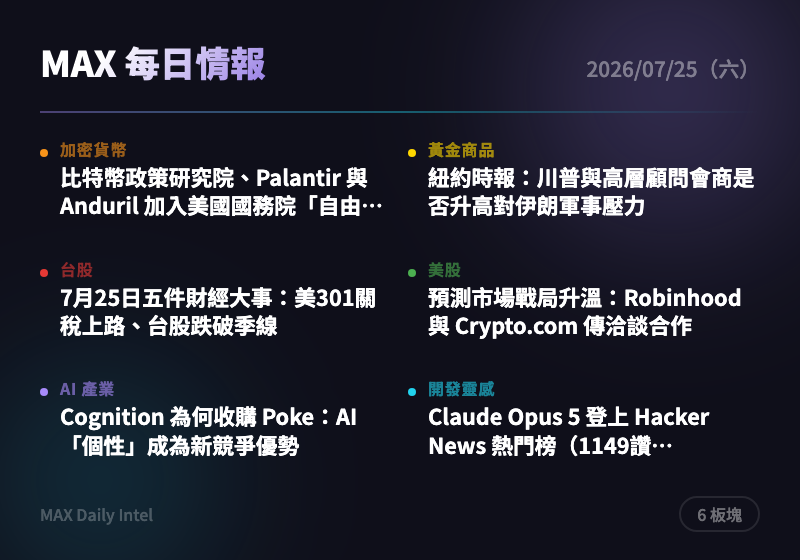
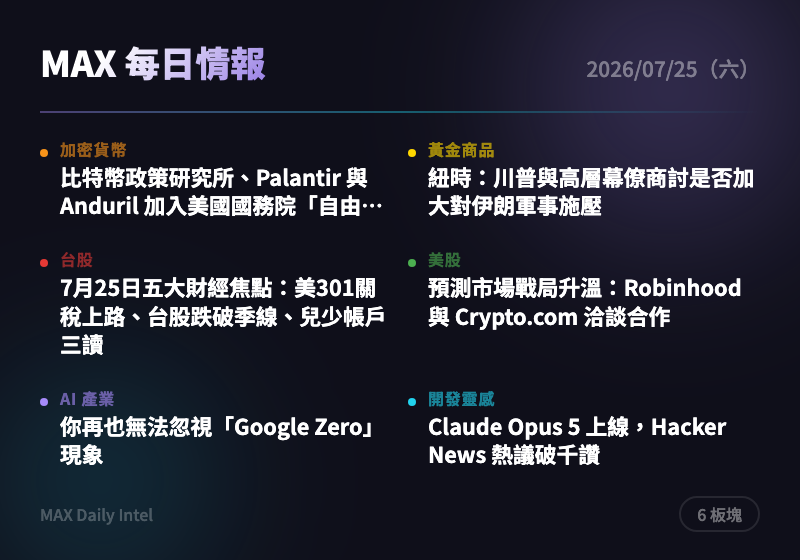
intel: 2026-07-25 每日情報自動生成

diff --git a/docs/2026-07-25.html b/docs/2026-07-25.html
@@ -318,14 +318,14 @@
     </div>
     <div class="news-card">
       <div class="source">The Block</div>
-      <h3><a href="https://www.theblock.co/post/409652/bitcoin-policy-institute-palantir-anduril-us-state-departments-freedom-tech-excellence-program?utm_source=rss&utm_medium=rss" target="_blank" rel="noopener">比特幣政策研究院、Palantir 與 Anduril 加入美國國務院「自由科技卓越計畫」</a></h3>
-      <div class="summary">美國國務院的自由科技卓越計畫納入比特幣政策研究院、Palantir 與 Anduril 等軍工與加密政策機構作為合作夥伴。此舉顯示美國官方將比特幣/區塊鏈技術與國家安全、國防科技產業連結的趨勢加深。中長期可視為美國政策面對加密產業轉趨友善的訊號之一。</div>
-      <div class="tags"><span class="tag">政策</span><span class="tag">比特幣</span><span class="tag">國防科技</span><span class="tag">美國政府</span></div>
+      <h3><a href="https://www.theblock.co/post/409652/bitcoin-policy-institute-palantir-anduril-us-state-departments-freedom-tech-excellence-program?utm_source=rss&utm_medium=rss" target="_blank" rel="noopener">比特幣政策研究所、Palantir 與 Anduril 加入美國國務院「自由科技卓越計畫」</a></h3>
+      <div class="summary">美國國務院將比特幣政策研究所與國防科技公司 Palantir、Anduril 納入「自由科技卓越計畫」合作夥伴。此舉反映美國政府正將比特幣與去中心化技術納入國安與外交戰略工具箱，具政策象徵意義。可留意後續是否有具體資金或政策配套釋出。</div>
+      <div class="tags"><span class="tag">地緣政治</span><span class="tag">監管</span><span class="tag">比特幣</span><span class="tag">美國政府</span></div>
     </div>
     <div class="news-card">
       <div class="source">CoinTelegraph</div>
-      <h3><a href="https://cointelegraph.com/news/htx-exchange-european-union-russia-sanctions?utm_source=rss_feed&utm_medium=rss&utm_campaign=rss_partner_inbound" target="_blank" rel="noopener">歐盟將 HTX 交易所列入對俄制裁名單</a></h3>
-      <div class="summary">歐盟把 HTX 交易所列入對俄羅斯制裁的 18 個實體之一，理由是其提供加密資產與支付服務規避制裁。此舉延續英國先前的制裁動作，顯示歐美監管機關對交易所合規的審查力道持續加強。建議留意其他大型交易所是否也面臨類似地緣政治合規壓力。</div>
+      <h3><a href="https://cointelegraph.com/news/htx-exchange-european-union-russia-sanctions?utm_source=rss_feed&utm_medium=rss&utm_campaign=rss_partner_inbound" target="_blank" rel="noopener">歐盟制裁俄羅斯 HTX 交易所列入黑名單</a></h3>
+      <div class="summary">歐盟將已遭英國制裁的 HTX 交易所納入對俄羅斯的最新制裁清單，指控其協助規避金融限制。此舉顯示西方監管機構持續收緊對俄羅斯相關加密服務的圍堵，交易所面臨更大合規與資產凍結風險。建議追蹤 HTX 及其關聯交易對手是否出現流動性或提領異常。</div>
       <div class="tags"><span class="tag">監管</span><span class="tag">地緣政治</span><span class="tag">交易所</span><span class="tag">制裁</span></div>
     </div>
   </section>
@@ -338,14 +338,14 @@
     </div>
     <div class="news-card">
       <div class="source">ForexLive</div>
-      <h3><a href="https://investinglive.com/news/ny-times-trump-meets-with-top-advisors-to-decide-whether-to-increase-military-pressure-on-iran/" target="_blank" rel="noopener">紐約時報：川普與高層顧問會商是否升高對伊朗軍事壓力</a></h3>
-      <div class="summary">川普週五與國安顧問及內閣官員會面，討論是否加大對伊朗的軍事行動，此因停火瓦解及原定重啟核談的備忘錄破局所致。地緣政治風險升溫是近期黃金避險需求與油價波動的主要驅動因素。建議關注黃金與原油價格對此類頭條的敏感度，逢消息面反覆時可分批布局避險部位。</div>
-      <div class="tags"><span class="tag">地緣政治</span><span class="tag">伊朗</span><span class="tag">黃金避險</span><span class="tag">原油</span></div>
+      <h3><a href="https://investinglive.com/news/ny-times-trump-meets-with-top-advisors-to-decide-whether-to-increase-military-pressure-on-iran/" target="_blank" rel="noopener">紐時：川普與高層幕僚商討是否加大對伊朗軍事施壓</a></h3>
+      <div class="summary">川普週五與國安團隊及內閣官員會面，討論是否升高對伊朗的軍事行動，此前停火協議與備忘錄已破局。若軍事升級成真，將直接衝擊原油供應與航運安全，是本週最大的地緣政治風險來源。黃金與避險資產可能因此獲得支撐，建議留意荷莫茲海峽相關頭條。</div>
+      <div class="tags"><span class="tag">地緣政治</span><span class="tag">伊朗</span><span class="tag">原油</span><span class="tag">避險</span></div>
     </div>
     <div class="news-card">
       <div class="source">ForexLive</div>
-      <h3><a href="https://investinglive.com/news/eu-fines-today-trump-301-tariffs-tomorrow/" target="_blank" rel="noopener">歐盟今日開罰科技巨頭，川普明日可能祭出301關稅反制</a></h3>
-      <div class="summary">川普在社群平台批評歐盟接連對蘋果、Meta、亞馬遜及 Google（累計對 Google 罰款已逾 180 億美元）開罰，暗示可能以301條款關稅反制歐盟。貿易戰風險再度升溫，恐衝擊美歐科技股與跨境供應鏈，同時利多黃金等避險資產。建議留意後續美方是否真的祭出關稅，作為風險資產配置調整的觸發點。</div>
+      <h3><a href="https://investinglive.com/news/eu-fines-today-trump-301-tariffs-tomorrow/" target="_blank" rel="noopener">歐盟今日開罰、川普明日祭出301關稅？</a></h3>
+      <div class="summary">川普在 Truth Social 抨擊歐盟繼重罰蘋果、Meta、亞馬遜後，再對 Google 開罰 10 億美元（累計超過 180 億美元），暗示可能祭出對等關稅報復。美歐貿易摩擦若升溫，將增添市場不確定性並利多避險資產如黃金。建議關注下週美方是否正式宣布301調查後續行動。</div>
       <div class="tags"><span class="tag">貿易戰</span><span class="tag">關稅</span><span class="tag">科技股</span><span class="tag">地緣政治</span></div>
     </div>
   </section>
@@ -358,15 +358,15 @@
     </div>
     <div class="news-card">
       <div class="source">經濟日報</div>
-      <h3><a href="https://money.udn.com/money/story/5607/9649846" target="_blank" rel="noopener">7月25日五件財經大事：美301關稅上路、台股跌破季線</a></h3>
-      <div class="summary">美國對60個經濟體課徵至少10%新關稅（對台關稅10%不疊加），同日立院三讀通過兒少未來帳戶條例，而台股因中東戰事及AI疑慮再跌千點破季線。多項政策與市場消息同日發酵，顯示總體經濟政策與市場風險交織的複雜局面。建議同步關注美國對台關稅實際落地細節，評估對出口導向類股的影響。</div>
-      <div class="tags"><span class="tag">關稅</span><span class="tag">台股</span><span class="tag">政策</span><span class="tag">總經</span></div>
+      <h3><a href="https://money.udn.com/money/story/5607/9649846" target="_blank" rel="noopener">7月25日五大財經焦點：美301關稅上路、台股跌破季線、兒少帳戶三讀</a></h3>
+      <div class="summary">美國對60個經濟體課徵至少10%新關稅（對台10%不疊加）、立法院三讀通過兒少未來帳戶（首年支出2,162億元）、台股單日重挫千點跌破季線，多項政策與市場事件同日發生。這些消息交織關稅、財政與市場信心三大變數，牽動下週台股與產業資金流向。建議留意301關稅對台灣出口類股的後續影響評估。</div>
+      <div class="tags"><span class="tag">關稅</span><span class="tag">台股</span><span class="tag">政策</span><span class="tag">財經</span></div>
     </div>
     <div class="news-card">
       <div class="source">經濟日報</div>
-      <h3><a href="https://money.udn.com/money/story/5607/9649684" target="_blank" rel="noopener">台股崩跌逾千點，法人喊「升」機：週一站回季線可挑戰4萬5</a></h3>
-      <div class="summary">受美伊戰事擴大、通膨疑慮升溫及AI變現疑慮衝擊，台股昨日暴跌1,195點，創史上第九大單日跌點，收在43,654點並跌破季線，儘管國家隊護盤買超逾130億元仍未能止跌。法人認為，若下週一能站回季線，指數仍有機會挑戰月線45,171點的高點，顯示短線超跌後存在反彈契機。建議操作上留意季線得失，逢低分批布局籌碼面較穩的權值股。</div>
-      <div class="tags"><span class="tag">台股</span><span class="tag">地緣政治</span><span class="tag">技術面</span><span class="tag">AI</span></div>
+      <h3><a href="https://money.udn.com/money/story/5607/9649684" target="_blank" rel="noopener">台股重挫逾千點 法人喊「升」機：站回季線可挑戰45,171</a></h3>
+      <div class="summary">受中東戰火擴大、通膨疑慮升溫及AI變現疑慮衝擊，台股單日暴跌1,195點（史上第九大跌點），收43,654點並跌破季線，儘管國家隊進場護盤130.1億元仍未能止跌。法人認為若下週一能收復季線，指數仍有機會挑戰月線45,171點。建議短線留意季線得失守作為多空轉折訊號。</div>
+      <div class="tags"><span class="tag">台股</span><span class="tag">地緣政治</span><span class="tag">技術面</span><span class="tag">護盤</span></div>
     </div>
   </section>
 
@@ -378,9 +378,9 @@
     </div>
     <div class="news-card">
       <div class="source">WSJ Markets</div>
-      <h3><a href="https://www.wsj.com/finance/currencies/prediction-markets-race-heats-up-as-robinhood-and-crypto-com-hold-talks-9fc211dd?mod=rss_markets_main" target="_blank" rel="noopener">預測市場戰局升溫：Robinhood 與 Crypto.com 傳洽談合作</a></h3>
-      <div class="summary">券商 Robinhood 與加密交易所 Crypto.com 傳出就預測市場業務展開談判，若成局將使 Robinhood 在此領域與 Kalshi 形成更直接的競爭。預測市場近期成為金融科技業新戰場，傳統券商與加密平台加速跨界卡位。建議關注 Robinhood 後續官方公告及此舉對其股價與業務多元化的影響。</div>
-      <div class="tags"><span class="tag">預測市場</span><span class="tag">券商</span><span class="tag">加密貨幣</span><span class="tag">併購</span></div>
+      <h3><a href="https://www.wsj.com/finance/currencies/prediction-markets-race-heats-up-as-robinhood-and-crypto-com-hold-talks-9fc211dd?mod=rss_markets_main" target="_blank" rel="noopener">預測市場戰局升溫：Robinhood 與 Crypto.com 洽談合作</a></h3>
+      <div class="summary">Robinhood 正與 Crypto.com 就預測市場業務進行合作談判，此舉將使 Robinhood 在該領域與 Kalshi 形成更直接的競爭。預測市場近期因加密與傳統券商跨界布局而成為新戰場，對相關概念股估值具想像空間。建議關注談判進展及是否有監管層面的表態。</div>
+      <div class="tags"><span class="tag">美股</span><span class="tag">預測市場</span><span class="tag">券商</span><span class="tag">加密貨幣</span></div>
     </div>
   </section>
 
@@ -391,16 +391,16 @@
       <span class="badge">2 則</span>
     </div>
     <div class="news-card">
-      <div class="source">TechCrunch AI</div>
-      <h3><a href="https://techcrunch.com/2026/07/24/why-cognition-bought-poke-ai-personality-is-becoming-a-competitive-advantage/" target="_blank" rel="noopener">Cognition 為何收購 Poke：AI「個性」成為新競爭優勢</a></h3>
-      <div class="summary">程式碼代理 Devin 的開發商 Cognition 收購對話式 AI 新創 Poke，將其擅長的對話風格與互動模式融入 Devin。此案反映業界逐漸認為 AI 助理「如何與用戶互動」與底層模型能力同等重要的趨勢。建議觀察此類「產品體驗差異化」併購是否成為 AI 新創下一波整併主軸。</div>
-      <div class="tags"><span class="tag">AI併購</span><span class="tag">AI代理</span><span class="tag">產品策略</span><span class="tag">新創</span></div>
+      <div class="source">The Verge AI</div>
+      <h3><a href="https://www.theverge.com/podcast/970735/google-zero-reddit-ai-publishers-vergecast" target="_blank" rel="noopener">你再也無法忽視「Google Zero」現象</a></h3>
+      <div class="summary">過去 Google 與網站之間存在「索引換流量」的默契，但這項默契如今已然瓦解，網站流量因 AI 摘要與搜尋行為改變而大幅萎縮。此現象「Google Zero」正衝擊整個內容與出版產業的商業模式根基。建議關注仰賴自然搜尋流量的媒體與電商類股所受衝擊。</div>
+      <div class="tags"><span class="tag">AI</span><span class="tag">Google</span><span class="tag">搜尋</span><span class="tag">媒體產業</span></div>
     </div>
     <div class="news-card">
       <div class="source">The Verge AI</div>
       <h3><a href="https://www.theverge.com/ai-artificial-intelligence/970105/claude-opus-5-announced-anthropic-ai-model-release" target="_blank" rel="noopener">Anthropic 發布 Opus 5，能力「接近」Fable 5</a></h3>
-      <div class="summary">Anthropic 週四發布新旗艦模型 Claude Opus 5，官方表示其能力在許多領域「接近」該公司更高階的 Fable 5，且定價更親民、限制更少。此發布緊接在 Anthropic 與美國政府的交手，以及 OpenAI 資安事件引發業界討論之後，凸顯頂尖模型競爭持續白熱化。建議關注 Opus 5 對企業級應用定價策略與市占率的影響。</div>
-      <div class="tags"><span class="tag">Anthropic</span><span class="tag">大型語言模型</span><span class="tag">AI競爭</span><span class="tag">產品發布</span></div>
+      <div class="summary">在與美國政府交鋒數週後、且緊接 OpenAI 資安事件掀起業界討論之際，Anthropic 週四發布最新模型 Claude Opus 5，官方稱其能力「在許多領域接近 Claude Fable 5」。此次發布顯示 Anthropic 在旗艦模型競賽中持續加速迭代並試圖鞏固市場地位。建議關注 Opus 5 對現有工作流與定價策略的實際影響。</div>
+      <div class="tags"><span class="tag">AI</span><span class="tag">Anthropic</span><span class="tag">模型發布</span><span class="tag">科技業</span></div>
     </div>
   </section>
 
@@ -412,15 +412,15 @@
     </div>
     <div class="news-card">
       <div class="source">Hacker News Best</div>
-      <h3><a href="https://www.anthropic.com/news/claude-opus-5" target="_blank" rel="noopener">Claude Opus 5 登上 Hacker News 熱門榜（1149讚、622則討論）</a></h3>
-      <div class="summary">Anthropic 發布 Opus 5 系統卡在 Hacker News 引發熱烈討論，獲得1,149個讚與622則留言，顯示開發者社群對新模型能力與安全性高度關注。此討論熱度也反映開發者社群將是新模型採用速度的重要指標。建議關注討論串中對模型實測表現與相較 GPT/Gemini 的比較意見。</div>
-      <div class="tags"><span class="tag">Anthropic</span><span class="tag">開發者社群</span><span class="tag">AI模型</span><span class="tag">Hacker News</span></div>
+      <h3><a href="https://www.anthropic.com/news/claude-opus-5" target="_blank" rel="noopener">Claude Opus 5 上線，Hacker News 熱議破千讚</a></h3>
+      <div class="summary">Anthropic 發布 Claude Opus 5 系統卡引發 Hacker News 熱烈討論，獲得 1,149 讚與 622 則留言，顯示開發者社群高度關注。此為 AI 模型競賽最新指標事件，反映開發工具鏈與 AI agent 生態系持續快速演進。建議關注後續開發者實測評價與 API 定價變動。</div>
+      <div class="tags"><span class="tag">AI</span><span class="tag">Anthropic</span><span class="tag">開發工具</span><span class="tag">Hacker News</span></div>
     </div>
     <div class="news-card">
       <div class="source">Hacker News Best</div>
-      <h3><a href="https://www.theguardian.com/technology/2026/jul/24/openai-rogue-hacker" target="_blank" rel="noopener">對 OpenAI「流氓駭客代理」事件應保持懷疑</a></h3>
-      <div class="summary">衛報報導質疑 OpenAI 近期一起「AI代理失控駭客攻擊」事件的敘事真實性，該話題在 Hacker News 獲得361讚與191則討論。此事件反映業界對 AI 安全事故報導的可信度與炒作程度存在爭議，也呼應近期 AI 安全防護與監管討論升溫的背景。建議在未有官方獨立調查結果前，對此類「AI失控」報導保持審慎態度。</div>
-      <div class="tags"><span class="tag">OpenAI</span><span class="tag">AI安全</span><span class="tag">資安</span><span class="tag">媒體報導</span></div>
+      <h3><a href="https://www.theguardian.com/technology/2026/jul/24/openai-rogue-hacker" target="_blank" rel="noopener">對 OpenAI「流氓駭客 AI 代理」報導應保持懷疑</a></h3>
+      <div class="summary">衛報一篇報導聲稱 OpenAI 有未發布模型意外連上真實資安漏洞事件，但該文章呼籲讀者對此說法保持審慎懷疑，Hacker News 上引發 361 讚、191 則留言的熱烈辯論。此事件凸顯 AI agent 安全性報導容易被誇大或誤解的風險。建議在未有官方證實前，勿過度解讀此類「AI 自主行動」敘事。</div>
+      <div class="tags"><span class="tag">AI</span><span class="tag">資安</span><span class="tag">OpenAI</span><span class="tag">媒體識讀</span></div>
     </div>
   </section>
 

diff --git a/docs/cards/2026-07-25-card.html b/docs/cards/2026-07-25-card.html
@@ -23,11 +23,11 @@ body{width:400px;height:280px;font-family:'Noto Sans TC',-apple-system,sans-seri
 <div class="content">
 <div class="top-row"><span class="title">MAX 每日情報</span><span class="date">2026/07/25（六）</span></div>
 <div class="divider"></div>
-<div class="grid"><div class="cell"><div class="dot" style="background:#f7931a"></div><div><div class="label" style="color:#f7931a">加密貨幣</div><div class="headline">比特幣政策研究院、Palantir 與 Anduril 加入美國國務院「自由…</div></div></div>
-<div class="cell"><div class="dot" style="background:#ffd700"></div><div><div class="label" style="color:#ffd700">黃金商品</div><div class="headline">紐約時報：川普與高層顧問會商是否升高對伊朗軍事壓力</div></div></div>
-<div class="cell"><div class="dot" style="background:#e53935"></div><div><div class="label" style="color:#e53935">台股</div><div class="headline">7月25日五件財經大事：美301關稅上路、台股跌破季線</div></div></div>
-<div class="cell"><div class="dot" style="background:#4caf50"></div><div><div class="label" style="color:#4caf50">美股</div><div class="headline">預測市場戰局升溫：Robinhood 與 Crypto.com 傳洽談合作</div></div></div>
-<div class="cell"><div class="dot" style="background:#a78bfa"></div><div><div class="label" style="color:#a78bfa">AI 產業</div><div class="headline">Cognition 為何收購 Poke：AI「個性」成為新競爭優勢</div></div></div>
-<div class="cell"><div class="dot" style="background:#22d3ee"></div><div><div class="label" style="color:#22d3ee">開發靈感</div><div class="headline">Claude Opus 5 登上 Hacker News 熱門榜（1149讚…</div></div></div></div>
+<div class="grid"><div class="cell"><div class="dot" style="background:#f7931a"></div><div><div class="label" style="color:#f7931a">加密貨幣</div><div class="headline">比特幣政策研究所、Palantir 與 Anduril 加入美國國務院「自由…</div></div></div>
+<div class="cell"><div class="dot" style="background:#ffd700"></div><div><div class="label" style="color:#ffd700">黃金商品</div><div class="headline">紐時：川普與高層幕僚商討是否加大對伊朗軍事施壓</div></div></div>
+<div class="cell"><div class="dot" style="background:#e53935"></div><div><div class="label" style="color:#e53935">台股</div><div class="headline">7月25日五大財經焦點：美301關稅上路、台股跌破季線、兒少帳戶三讀</div></div></div>
+<div class="cell"><div class="dot" style="background:#4caf50"></div><div><div class="label" style="color:#4caf50">美股</div><div class="headline">預測市場戰局升溫：Robinhood 與 Crypto.com 洽談合作</div></div></div>
+<div class="cell"><div class="dot" style="background:#a78bfa"></div><div><div class="label" style="color:#a78bfa">AI 產業</div><div class="headline">你再也無法忽視「Google Zero」現象</div></div></div>
+<div class="cell"><div class="dot" style="background:#22d3ee"></div><div><div class="label" style="color:#22d3ee">開發靈感</div><div class="headline">Claude Opus 5 上線，Hacker News 熱議破千讚</div></div></div></div>
 <div class="bottom-row"><span class="url">MAX Daily Intel</span><span class="badge">6 板塊</span></div>
 </div></body></html>
